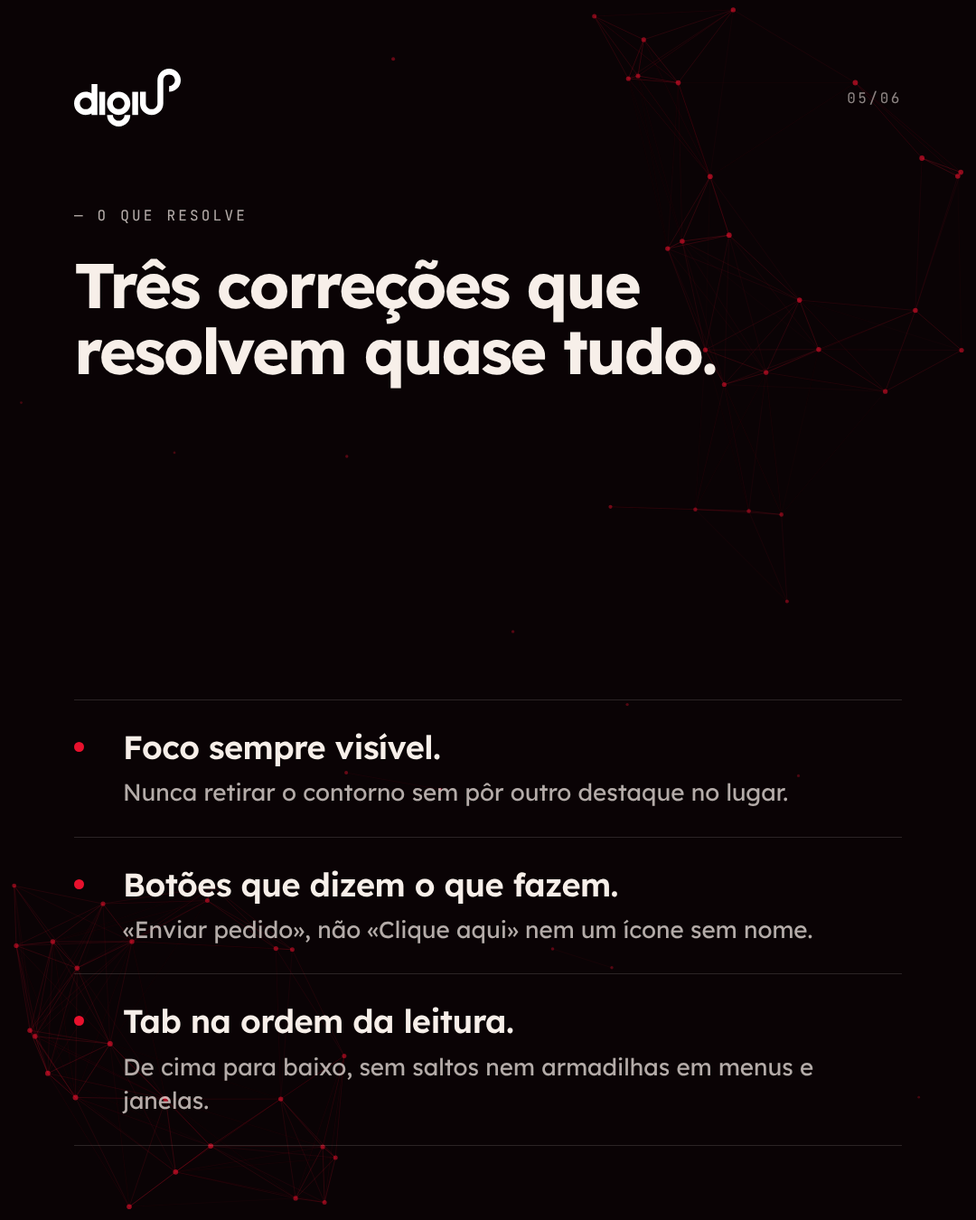
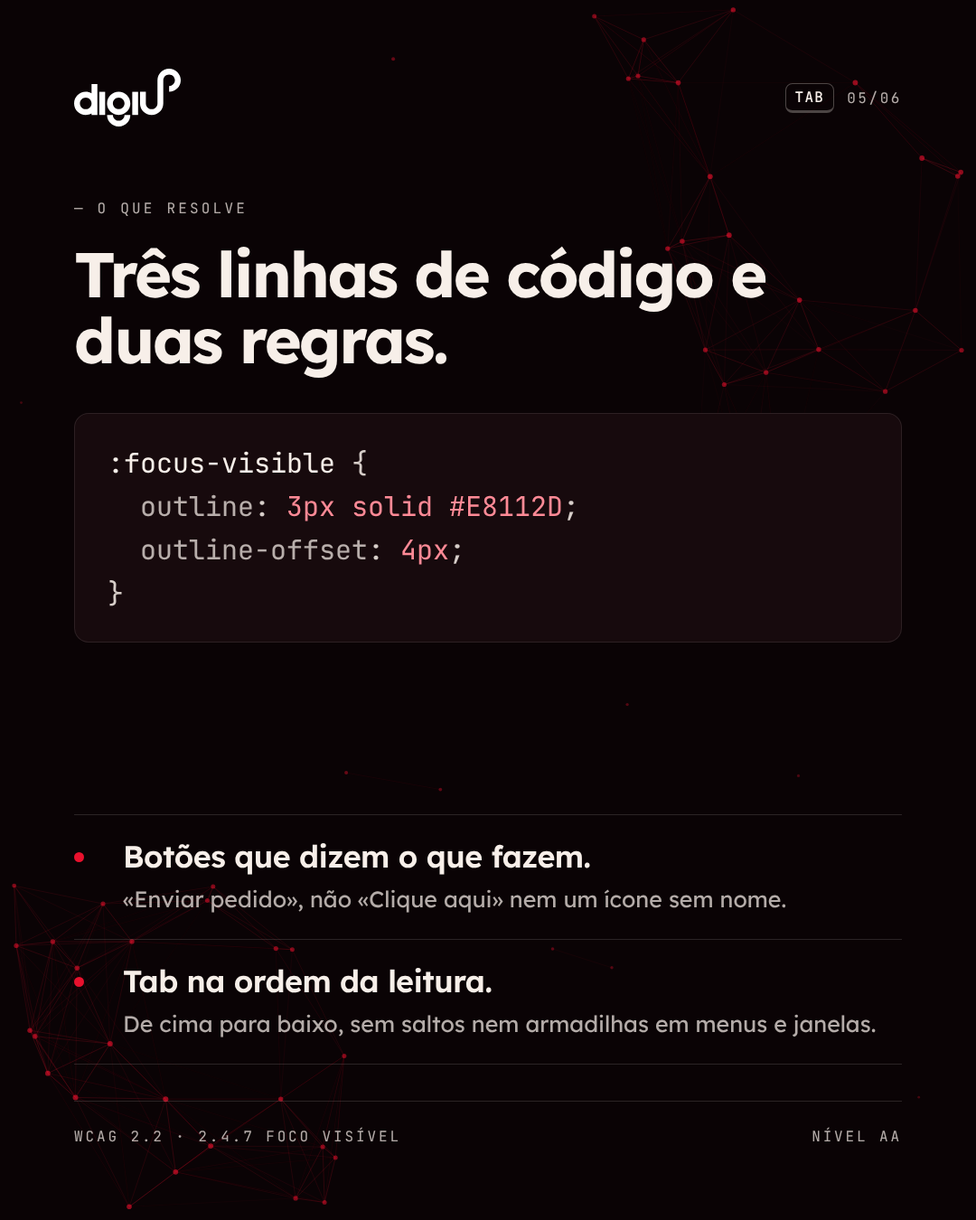
Carrossel «Cada deslize é um Tab» com imagens 3D
Nova versão do post de exemplo: tecla Tab e teclado renderizados em
3D com luz vermelha, e um anel de foco que atravessa os slides como se
cada deslize fosse um Tab. Inclui a cena three.js para regenerar as
imagens.

Claude-Session: https://claude.ai/code/session_0173GtUhSHhHFQaxLRUGv3dG

diff --git a/post-exemplo/carrossel.html b/post-exemplo/carrossel.html
@@ -4,144 +4,158 @@
 <meta charset="utf-8">
 <link href="https://fonts.googleapis.com/css2?family=Lexend:wght@400;500;600;700&family=JetBrains+Mono:wght@400;500&display=block" rel="stylesheet">
 <style>
-/* digiUP Design System tokens (tokens.json) */
+/* digiUP Design System tokens + one new device: the focus ring (#E8112D, 4px, offset 10px) */
 :root{
-  --du-black:#0a0305; --du-black-card:#170a0d; --du-cream:#f7efe9; --du-white:#ffffff;
-  --du-red:#e8112d; --du-crimson:#b00e22;
-  --du-cream-86:rgba(247,239,233,.86); --du-cream-72:rgba(247,239,233,.72); --du-cream-68:rgba(247,239,233,.68);
-  --du-cream-55:rgba(247,239,233,.55); --du-cream-28:rgba(247,239,233,.28); --du-cream-14:rgba(247,239,233,.14); --du-cream-10:rgba(247,239,233,.1);
+  --du-black:#0a0305; --du-black-card:#170a0d; --du-cream:#f7efe9; --du-white:#ffffff; --du-red:#e8112d;
+  --du-cream-86:rgba(247,239,233,.86); --du-cream-72:rgba(247,239,233,.72); --du-cream-55:rgba(247,239,233,.55);
+  --du-cream-28:rgba(247,239,233,.28); --du-cream-14:rgba(247,239,233,.14); --du-cream-10:rgba(247,239,233,.1);
   --du-font-sans:Lexend,Helvetica,sans-serif; --du-font-mono:'JetBrains Mono',ui-monospace,monospace;
-  --du-glow-corner:radial-gradient(115% 62% at 84% 12%,rgba(176,14,34,.46) 0%,rgba(10,3,5,0) 68%);
-  --du-glow-soft:radial-gradient(105% 55% at 90% 8%,rgba(176,14,34,.35) 0%,rgba(10,3,5,0) 62%);
-  --du-glow-low:radial-gradient(110% 60% at 12% 96%,rgba(176,14,34,.42) 0%,rgba(10,3,5,0) 66%);
+  --ring:0 0 0 4px var(--du-red), 0 0 38px 6px rgba(232,17,45,.45);
 }
 *{box-sizing:border-box;margin:0;padding:0}
 body{background:#17181a;font-family:var(--du-font-sans);display:flex;flex-wrap:wrap;gap:48px;padding:56px;align-items:flex-start}
 .s{position:relative;width:1080px;height:1350px;flex-shrink:0;overflow:hidden;isolation:isolate;background:var(--du-black);color:var(--du-cream);display:flex;flex-direction:column;padding:76px 82px 82px}
-.net{position:absolute;inset:0;width:100%;height:100%;object-fit:cover;z-index:-1}
+.net{position:absolute;inset:0;width:100%;height:100%;object-fit:cover;z-index:-2}
 .glow{position:absolute;inset:0;z-index:-1}
-.top{display:flex;justify-content:space-between;align-items:center}
+.top{display:flex;justify-content:space-between;align-items:center;position:relative;z-index:2}
 .top img{width:118px;height:auto}
-.counter{font-family:var(--du-font-mono);font-size:16px;letter-spacing:.16em;color:var(--du-cream-55)}
+.tabcount{display:flex;align-items:center;gap:14px;font-family:var(--du-font-mono);font-size:16px;letter-spacing:.16em;color:var(--du-cream-72)}
+.tabcount b{font-weight:500;color:var(--du-cream);border:1px solid var(--du-cream-28);border-bottom-width:3px;border-radius:8px;padding:4px 10px;letter-spacing:.08em}
 .eyebrow{display:flex;align-items:center;gap:14px;font-family:var(--du-font-mono);font-size:16px;letter-spacing:.2em;text-transform:uppercase;color:var(--du-cream-72)}
 .eyebrow .dot{width:11px;height:11px;border-radius:50%;background:var(--du-red)}
 .h{font-weight:700;letter-spacing:-.035em;line-height:1.04}
 .hl{display:flex;flex-direction:column;align-items:flex-start;gap:6px}
-.hl > div{font-size:76px;font-weight:700;letter-spacing:-.035em;line-height:1.08}
+.hl > div{font-size:var(--fs,80px);font-weight:700;letter-spacing:-.035em;line-height:1.08}
 .hl .c{background:var(--du-cream);color:var(--du-black);padding:2px 20px;border-radius:6px}
 .hl .r{background:var(--du-red);color:var(--du-white);padding:2px 20px;border-radius:6px}
-.body{font-size:27px;line-height:1.52;color:var(--du-cream-72);max-width:780px;text-wrap:pretty}
-.meta{padding-top:30px;border-top:1px solid var(--du-cream-14);display:flex;justify-content:space-between;font-family:var(--du-font-mono);font-size:16px;letter-spacing:.18em;text-transform:uppercase;color:var(--du-cream-72)}
-.keys{display:flex;flex-wrap:wrap;gap:16px}
-.key{font-family:var(--du-font-mono);font-weight:500;font-size:24px;letter-spacing:.06em;border:1px solid var(--du-cream-28);border-bottom-width:4px;border-radius:12px;padding:14px 22px;color:var(--du-cream)}
-.rows{display:flex;flex-direction:column}
-.row{display:grid;grid-template-columns:300px 1fr;gap:24px;align-items:center;padding:28px 0;border-top:1px solid var(--du-cream-14)}
-.row:last-child{border-bottom:1px solid var(--du-cream-14)}
-.row .key{justify-self:start;font-size:22px;padding:10px 18px}
-.row span{font-size:28px;line-height:1.35;color:var(--du-cream-86)}
-.cards{display:flex;flex-direction:column;gap:22px}
-.card{background:var(--du-black-card);border:1px solid var(--du-cream-10);border-radius:16px;padding:46px 42px;display:grid;grid-template-columns:96px 1fr;align-items:center}
-.card .n{font-size:52px;font-weight:700;letter-spacing:-.05em;line-height:.9;color:var(--du-red)}
-.card p{font-size:40px;font-weight:600;letter-spacing:-.015em;line-height:1.2}
-.fix{display:grid;grid-template-columns:34px 1fr;gap:10px 20px;padding:30px 0;border-top:1px solid var(--du-cream-14)}
+.body{font-size:27px;line-height:1.52;color:var(--du-cream-72);max-width:800px;text-wrap:pretty}
+.meta{padding-top:28px;border-top:1px solid var(--du-cream-14);display:flex;justify-content:space-between;font-family:var(--du-font-mono);font-size:16px;letter-spacing:.18em;text-transform:uppercase;color:var(--du-cream-72);position:relative;z-index:2}
+.focusnote{font-family:var(--du-font-mono);font-size:16px;letter-spacing:.16em;text-transform:uppercase;color:var(--du-red)}
+.focusnote.off{color:var(--du-cream-72)}
+
+/* form mock: the system's one field type, underlined */
+.form{background:var(--du-black-card);border:1px solid var(--du-cream-10);border-radius:20px;padding:44px 48px;display:flex;flex-direction:column;gap:34px}
+.field label{display:block;font-family:var(--du-font-mono);font-size:16px;letter-spacing:.16em;text-transform:uppercase;color:var(--du-cream-72);margin-bottom:12px}
+.field .in{font-size:30px;color:var(--du-cream-55);padding:6px 4px 14px;border-bottom:1px solid var(--du-cream-28)}
+.field.focus .in{color:var(--du-cream)}
+.field.focus{border-radius:10px;box-shadow:var(--ring);outline-offset:10px;padding:14px 16px;margin:-14px -16px}
+.btn{align-self:flex-start;display:inline-flex;align-items:center;gap:14px;background:var(--du-red);color:var(--du-white);border-radius:999px;padding:20px 34px;font-size:24px;font-weight:600}
+.caret{display:inline-block;width:3px;height:30px;background:var(--du-cream);vertical-align:-5px;margin-left:2px}
+
+.keyrow{display:flex;flex-wrap:wrap;gap:12px 26px;font-size:24px;color:var(--du-cream-86);line-height:1.3}
+.keyrow span{display:flex;align-items:center;gap:12px}
+.k{font-style:normal;font-family:var(--du-font-mono);font-weight:500;font-size:20px;letter-spacing:.06em;border:1px solid var(--du-cream-28);border-bottom-width:3px;border-radius:10px;padding:6px 12px;color:var(--du-cream)}
+
+.code{font-family:var(--du-font-mono);font-size:30px;line-height:1.6;background:var(--du-black-card);border:1px solid var(--du-cream-10);border-radius:16px;padding:30px 36px;color:var(--du-cream-86)}
+.code .sel{color:var(--du-cream)} .code .p{color:var(--du-cream-72)} .code .v{color:#ff8a96}
+.code del{text-decoration:line-through;text-decoration-color:var(--du-red);text-decoration-thickness:4px;color:var(--du-cream-72)}
+.fix{display:grid;grid-template-columns:34px 1fr;gap:8px 20px;padding:26px 0;border-top:1px solid var(--du-cream-14)}
 .fix:last-child{border-bottom:1px solid var(--du-cream-14)}
-.fix i{width:11px;height:11px;border-radius:50%;background:var(--du-red);margin-top:16px}
-.fix b{font-size:36px;font-weight:600;letter-spacing:-.015em;line-height:1.2}
-.fix span{grid-column:2;font-size:26px;line-height:1.45;color:var(--du-cream-72)}
-.pill{display:inline-flex;align-items:center;gap:14px;background:var(--du-red);color:var(--du-white);border-radius:999px;padding:22px 36px;font-size:26px;font-weight:600}
-.disc{width:66px;height:66px;border-radius:50%;background:var(--du-red);color:var(--du-white);display:flex;align-items:center;justify-content:center;font-size:28px}
-.note{font-size:24px;line-height:1.5;color:var(--du-cream-72);border-top:1px solid var(--du-cream-14);padding-top:26px}
+.fix i{width:11px;height:11px;border-radius:50%;background:var(--du-red);margin-top:15px}
+.fix b{font-size:34px;font-weight:600;letter-spacing:-.015em;line-height:1.2}
+.fix span{grid-column:2;font-size:25px;line-height:1.45;color:var(--du-cream-72)}
+.pill{display:inline-flex;align-items:center;gap:14px;background:var(--du-red);color:var(--du-white);border-radius:999px;padding:24px 40px;font-size:28px;font-weight:600}
+.pill.focus{box-shadow:0 0 0 6px var(--du-black),0 0 0 10px var(--du-cream),0 0 44px 10px rgba(232,17,45,.5)}
 </style>
 </head>
 <body>
 
-<!-- 01 Capa -->
+<!-- 01 Capa: a tecla Tab com o anel de foco -->
 <section class="s" id="s1">
   <img class="net" src="net-subtle-1080x1350.svg" alt="">
-  <div class="glow" style="background:var(--du-glow-corner)"></div>
-  <div class="top"><img src="digiup-white.svg" alt="digiUP"><span class="counter">01/06</span></div>
-  <div class="eyebrow" style="margin-top:104px"><span class="dot"></span>Acessibilidade digital · Desafio</div>
-  <div class="hl" style="margin-top:38px">
-    <div>Dois minutos</div>
-    <div class="c">sem rato</div>
-    <div class="r">no seu site.</div>
+  <div class="glow" style="background:radial-gradient(80% 50% at 60% 42%,rgba(176,14,34,.42) 0%,rgba(10,3,5,0) 70%)"></div>
+  <div class="top"><img src="digiup-white.svg" alt="digiUP"><span class="tabcount"><b>TAB</b>01/06</span></div>
+  <div style="position:absolute;left:-40px;top:206px;width:1180px;transform:rotate(-7deg);z-index:1">
+    <img src="tecla-tab-crop.png" alt="" style="width:100%;display:block">
+    <div style="position:absolute;left:30px;top:-14px;width:1010px;height:520px;border-radius:64px;box-shadow:0 0 0 5px var(--du-red),0 0 60px 10px rgba(232,17,45,.45)"></div>
   </div>
-  <p class="body" style="margin-top:38px">Pouse o rato e tente preencher um formulário só com o teclado.</p>
-  <div class="keys" style="margin-top:44px">
-    <span class="key">TAB</span><span class="key">SHIFT + TAB</span><span class="key">ENTER</span><span class="key">ESPAÇO</span><span class="key">← →</span>
+  <div style="margin-top:auto;position:relative;z-index:2">
+    <div class="eyebrow"><span class="dot"></span>Acessibilidade digital · Desafio</div>
+    <div class="hl" style="margin-top:30px">
+      <div>Dois minutos</div>
+      <div class="c">sem rato</div>
+      <div class="r">no seu site.</div>
+    </div>
   </div>
-  <div class="meta" style="margin-top:auto"><span>Desliza →</span><span>digiup.me</span></div>
+  <div class="meta" style="margin-top:44px"><span>Cada deslize é um Tab →</span><span>digiup.me</span></div>
 </section>
 
-<!-- 02 Instruções -->
+<!-- 02 O desafio: foco no primeiro campo -->
 <section class="s" id="s2">
   <img class="net" src="net-subtle-1080x1350.svg" alt="">
-  <div class="top"><img src="digiup-white.svg" alt="digiUP"><span class="counter">02/06</span></div>
-  <div class="eyebrow" style="margin-top:88px">— O desafio</div>
-  <div class="h" style="margin-top:30px;font-size:76px">Pouse o rato.</div>
-  <p class="body" style="margin-top:26px">Abra um formulário real do seu site — contacto, inscrição ou checkout — e use só estas teclas.</p>
-  <div class="rows" style="margin-top:auto">
-    <div class="row"><span class="key">TAB</span><span>Avança para o elemento seguinte.</span></div>
-    <div class="row"><span class="key">SHIFT + TAB</span><span>Volta ao elemento anterior.</span></div>
-    <div class="row"><span class="key">ENTER</span><span>Abre um link ou carrega num botão.</span></div>
-    <div class="row"><span class="key">ESPAÇO</span><span>Marca uma caixa ou carrega num botão.</span></div>
-    <div class="row"><span class="key">← →</span><span>Escolhe uma opção numa lista.</span></div>
+  <div class="top"><img src="digiup-white.svg" alt="digiUP"><span class="tabcount"><b>TAB</b>02/06</span></div>
+  <div class="eyebrow" style="margin-top:80px">— O desafio</div>
+  <div class="h" style="margin-top:26px;font-size:76px">Pouse o rato.</div>
+  <p class="body" style="margin-top:22px">Abra um formulário real do seu site e preencha-o só com o teclado.</p>
+  <div class="form" style="margin-top:46px">
+    <div class="field focus"><label>Nome</label><div class="in">Ana Ferreira<span class="caret"></span></div></div>
+    <div class="field"><label>Email</label><div class="in">nome@empresa.pt</div></div>
+    <div class="btn">Enviar pedido <span>→</span></div>
+  </div>
+  <div class="focusnote" style="margin-top:22px">● Foco no campo «Nome»</div>
+  <div class="keyrow" style="margin-top:auto">
+    <span><i class="k">TAB</i>avança</span><span><i class="k">SHIFT+TAB</i>volta</span><span><i class="k">ENTER</i>ativa</span><span><i class="k">← →</i>escolhem</span>
   </div>
 </section>
 
-<!-- 03 Perguntas -->
+<!-- 03 O foco desaparece -->
 <section class="s" id="s3">
   <img class="net" src="net-subtle-1080x1350.svg" alt="">
-  <div class="top"><img src="digiup-white.svg" alt="digiUP"><span class="counter">03/06</span></div>
-  <div class="eyebrow" style="margin-top:88px">— Depois, responda</div>
-  <div class="h" style="margin-top:30px;font-size:76px">Três perguntas.</div>
-  <div class="cards" style="margin:auto 0">
-    <div class="card"><span class="n">01</span><p>Em que ponto se perdeu?</p></div>
-    <div class="card"><span class="n">02</span><p>Sabia sempre onde estava o foco?</p></div>
-    <div class="card"><span class="n">03</span><p>O leitor de ecrã disse algo útil nas imagens e nos botões?</p></div>
+  <div class="top"><img src="digiup-white.svg" alt="digiUP"><span class="tabcount"><b>TAB</b>03/06</span></div>
+  <div class="eyebrow" style="margin-top:80px">— Mais um Tab</div>
+  <div class="h" style="margin-top:26px;font-size:76px">Onde está o foco?</div>
+  <div class="form" style="margin-top:46px">
+    <div class="field"><label>Nome</label><div class="in" style="color:var(--du-cream)">Ana Ferreira</div></div>
+    <div class="field"><label>Email</label><div class="in">nome@empresa.pt</div></div>
+    <div class="btn">Enviar pedido <span>→</span></div>
   </div>
-  <p class="note">Leitor de ecrã: o VoiceOver já vem no Mac e no iPhone. No Windows, o NVDA é gratuito.</p>
+  <div class="focusnote off" style="margin-top:22px">○ Foco: invisível</div>
+  <p class="body" style="margin-top:auto">Carregou no Tab e nada se vê. Acontece quando o código apaga o contorno:</p>
+  <div class="code" style="margin-top:22px"><span class="sel">button:focus</span> {<br>&nbsp;&nbsp;<del><span class="p">outline</span>: none;</del><br>}</div>
 </section>
 
-<!-- 04 Frase -->
-<section class="s" id="s4">
-  <img class="net" src="net-subtle-1080x1350.svg" alt="">
-  <div class="glow" style="background:var(--du-glow-low)"></div>
-  <div class="top"><img src="digiup-white.svg" alt="digiUP"><span class="counter">04/06</span></div>
-  <div class="eyebrow" style="margin-top:88px">— A diferença</div>
-  <div class="hl" style="margin:auto 0">
+<!-- 04 Frase sobre o teclado -->
+<section class="s" id="s4" style="padding-top:76px">
+  <img src="teclado.png" alt="" style="position:absolute;left:-640px;bottom:-150px;width:1960px;z-index:-2">
+  <div class="glow" style="background:linear-gradient(180deg,rgba(10,3,5,1) 30%,rgba(10,3,5,.82) 52%,rgba(10,3,5,.25) 78%,rgba(10,3,5,.55) 100%)"></div>
+  <div class="top"><img src="digiup-white.svg" alt="digiUP"><span class="tabcount"><b>TAB</b>04/06</span></div>
+  <div class="eyebrow" style="margin-top:80px">— A diferença</div>
+  <div class="hl" style="margin-top:34px;--fs:72px">
     <div>Para nós, foram</div>
     <div>dois minutos chatos.</div>
-    <div class="c" style="margin-top:28px">Para algumas pessoas,</div>
+    <div class="c" style="margin-top:24px">Para algumas pessoas,</div>
     <div class="r">é todos os dias.</div>
-    <p class="body" style="margin-top:40px">Em quase todos os sites. A barreira raramente está na pessoa — está quase sempre no que desenhámos.</p>
   </div>
-  <div class="meta"><span>Formação interna · digiUP</span><span>Amarante, PT</span></div>
+  <p class="body" style="margin-top:34px">Em quase todos os sites. A barreira raramente está na pessoa — está no que desenhámos.</p>
 </section>
 
 <!-- 05 O que resolve -->
 <section class="s" id="s5">
   <img class="net" src="net-subtle-1080x1350.svg" alt="">
-  <div class="top"><img src="digiup-white.svg" alt="digiUP"><span class="counter">05/06</span></div>
-  <div class="eyebrow" style="margin-top:88px">— O que resolve</div>
-  <div class="h" style="margin-top:30px;font-size:70px;max-width:860px">Três correções que resolvem quase tudo.</div>
+  <div class="top"><img src="digiup-white.svg" alt="digiUP"><span class="tabcount"><b>TAB</b>05/06</span></div>
+  <div class="eyebrow" style="margin-top:80px">— O que resolve</div>
+  <div class="h" style="margin-top:26px;font-size:70px;max-width:880px">Três linhas de código e duas regras.</div>
+  <div class="code" style="margin-top:44px"><span class="sel">:focus-visible</span> {<br>&nbsp;&nbsp;<span class="p">outline</span>: <span class="v">3px solid #E8112D</span>;<br>&nbsp;&nbsp;<span class="p">outline-offset</span>: <span class="v">4px</span>;<br>}</div>
   <div style="margin-top:auto">
-    <div class="fix"><i></i><b>Foco sempre visível.</b><span>Nunca retirar o contorno sem pôr outro destaque no lugar.</span></div>
     <div class="fix"><i></i><b>Botões que dizem o que fazem.</b><span>«Enviar pedido», não «Clique aqui» nem um ícone sem nome.</span></div>
     <div class="fix"><i></i><b>Tab na ordem da leitura.</b><span>De cima para baixo, sem saltos nem armadilhas em menus e janelas.</span></div>
   </div>
+  <div class="meta" style="margin-top:40px"><span>WCAG 2.2 · 2.4.7 Foco visível</span><span>Nível AA</span></div>
 </section>
 
-<!-- 06 CTA -->
+<!-- 06 CTA: o foco chega ao botão -->
 <section class="s" id="s6">
   <img class="net" src="net-subtle-1080x1350.svg" alt="">
-  <div class="glow" style="background:var(--du-glow-soft)"></div>
-  <div class="top"><img src="digiup-white.svg" alt="digiUP"><span class="counter">06/06</span></div>
+  <div class="glow" style="background:radial-gradient(105% 55% at 90% 8%,rgba(176,14,34,.35) 0%,rgba(10,3,5,0) 62%)"></div>
+  <div class="top"><img src="digiup-white.svg" alt="digiUP"><span class="tabcount"><b>TAB</b>06/06</span></div>
   <div style="margin:auto 0;display:flex;flex-direction:column;gap:38px;align-items:flex-start">
-    <div class="eyebrow"><span class="dot"></span>A sua vez</div>
-    <div class="h" style="font-size:72px;max-width:860px">Onde é que se perdeu?</div>
-    <p class="body">Faça o teste e conte-nos nos comentários. Se quiser saber o que corrigir primeiro, analisamos o seu site.</p>
-    <div style="display:flex;align-items:center;gap:22px"><span class="pill">Vamos conversar <span>→</span></span><span class="disc">↗</span></div>
+    <div class="eyebrow"><span class="dot"></span>Chegou ao fim só com Tab</div>
+    <div class="h" style="font-size:76px;max-width:880px">Onde é que se perdeu?</div>
+    <p class="body">Faça o teste no seu site e conte-nos nos comentários. Se quiser saber o que corrigir primeiro, analisamos o seu site.</p>
+    <div style="display:flex;flex-direction:column;gap:22px;margin-top:10px">
+      <span class="pill focus">Vamos conversar <span>→</span></span>
+      <span class="focusnote">● Foco no botão. Enter para continuar.</span>
+    </div>
   </div>
   <div class="meta"><span>digiup.me</span><span>Amarante, PT</span></div>
 </section>

diff --git a/post-exemplo/3d/scene.html b/post-exemplo/3d/scene.html
@@ -1,0 +1,103 @@
+<!doctype html>
+<html><head><meta charset="utf-8">
+<link href="https://fonts.googleapis.com/css2?family=Lexend:wght@500;600&family=JetBrains+Mono:wght@500&display=block" rel="stylesheet">
+<style>html,body{margin:0;background:transparent}canvas{display:block}</style>
+<script type="importmap">{"imports":{"three":"./node_modules/three/build/three.module.js","three/addons/":"./node_modules/three/examples/jsm/"}}</script>
+</head><body>
+<script type="module">
+import * as THREE from 'three';
+import { RoundedBoxGeometry } from 'three/addons/geometries/RoundedBoxGeometry.js';
+import { RectAreaLightUniformsLib } from 'three/addons/lights/RectAreaLightUniformsLib.js';
+import { RoomEnvironment } from 'three/addons/environments/RoomEnvironment.js';
+
+const P = new URLSearchParams(location.search);
+const mode = P.get('mode') || 'hero';
+const W = +P.get('w') || 2000, H = +P.get('h') || 1600;
+await document.fonts.load('600 80px Lexend'); await document.fonts.load('500 40px "JetBrains Mono"');
+
+RectAreaLightUniformsLib.init();
+const renderer = new THREE.WebGLRenderer({ antialias: true, alpha: true, preserveDrawingBuffer: true });
+renderer.setPixelRatio(1); renderer.setSize(W, H);
+renderer.toneMapping = THREE.ACESFilmicToneMapping; renderer.toneMappingExposure = 1.0;
+renderer.outputColorSpace = THREE.SRGBColorSpace;
+renderer.shadowMap.enabled = true; renderer.shadowMap.type = THREE.PCFSoftShadowMap;
+document.body.appendChild(renderer.domElement);
+
+const scene = new THREE.Scene();
+const pmrem = new THREE.PMREMGenerator(renderer);
+const env = pmrem.fromScene(new RoomEnvironment(renderer), 0.04).texture;
+scene.environment = env;
+scene.environmentIntensity = 0.12;
+
+const RED = 0xe8112d, CREAM = '#f7efe9';
+const capMat = () => new THREE.MeshPhysicalMaterial({ color: 0x0d0607, roughness: 0.34, metalness: 0.0, clearcoat: 0.6, clearcoatRoughness: 0.25, sheen: 0.3, sheenColor: new THREE.Color(0x5a0a14) });
+
+function legendTexture(text, sub, w, h, color = CREAM) {
+  const c = document.createElement('canvas'); c.width = w; c.height = h;
+  const g = c.getContext('2d');
+  g.fillStyle = color; g.textBaseline = 'top';
+  g.font = `600 ${Math.round(h * 0.26)}px Lexend`;
+  g.fillText(text, w * 0.11, h * 0.13);
+  if (sub) { g.font = `500 ${Math.round(h * 0.2)}px "JetBrains Mono"`; g.fillText(sub, w * 0.11, h * 0.56); }
+  const t = new THREE.CanvasTexture(c); t.colorSpace = THREE.SRGBColorSpace; t.anisotropy = 8; return t;
+}
+
+function keycap(u = 1, text = '', sub = '', opts = {}) {
+  const g = new THREE.Group();
+  const base = new THREE.Mesh(new RoundedBoxGeometry(u - 0.08, 0.42, 0.92, 8, 0.11), capMat());
+  base.position.y = 0.21; base.castShadow = true; base.receiveShadow = true; g.add(base);
+  if (text || sub) {
+    const tw = u - 0.24, th = 0.72;
+    const m = new THREE.Mesh(new THREE.PlaneGeometry(tw, th),
+      new THREE.MeshBasicMaterial({ map: legendTexture(text, sub, Math.round(512 * tw / th), 512, opts.legend || CREAM), transparent: true, toneMapped: false, opacity: opts.legendOpacity ?? 0.92 }));
+    m.rotation.x = -Math.PI / 2; m.position.set(0, 0.4205, 0); g.add(m);
+  }
+  return g;
+}
+
+let camera;
+if (mode === 'hero') {
+  // one giant Tab key, 3/4 view, red rim light
+  const k = keycap(1.6, 'Tab', '⇥'); k.rotation.y = -0.42; scene.add(k);
+  camera = new THREE.PerspectiveCamera(30, W / H, 0.1, 100);
+  camera.position.set(-0.75, 2.05, 2.25); camera.lookAt(0.12, 0.15, 0);
+  const rim = new THREE.RectAreaLight(RED, 34, 3, 0.6); rim.position.set(1.7, 0.7, -1.6); rim.lookAt(0, 0.4, 0); scene.add(rim);
+  const rim2 = new THREE.RectAreaLight(0xff2b3b, 14, 2, 1); rim2.position.set(-2.2, 0.6, -1.4); rim2.lookAt(0, 0.4, 0); scene.add(rim2);
+  const key = new THREE.SpotLight(0xffe2d6, 7, 12, 0.5, 0.9, 1.6); key.position.set(-3.2, 3.2, 1.2); key.target.position.set(0, 0.4, 0); key.castShadow = true; scene.add(key, key.target);
+  const floor = new THREE.Mesh(new THREE.PlaneGeometry(30, 30), new THREE.ShadowMaterial({ opacity: 0.55 })); floor.rotation.x = -Math.PI / 2; floor.receiveShadow = true; scene.add(floor);
+} else {
+  // a keyboard field at a low angle, receding into the dark
+  const rows = [
+    [['Esc', ''], ['', '1'], ['', '2'], ['', '3'], ['', '4'], ['', '5'], ['', '6'], ['', '7'], ['', '8']],
+    [['Tab', '⇥', 1.5], ['Q'], ['W'], ['E'], ['R'], ['T'], ['Y'], ['U'], ['I']],
+    [['Caps', '', 1.75], ['A'], ['S'], ['D'], ['F'], ['G'], ['H'], ['J'], ['K']],
+    [['Shift', '', 2.25], ['Z'], ['X'], ['C'], ['V'], ['B'], ['N'], ['M'], [',']],
+    [['', '', 1.25], ['', '', 1.25], ['', '', 1.25], ['Espaço', '', 6.25]],
+  ];
+  const kb = new THREE.Group();
+  rows.forEach((row, r) => {
+    let x = r === 0 ? 0 : 0;
+    row.forEach(([t, s, u = 1]) => {
+      const hl = t === 'Tab';
+      const k = keycap(u, t, s || '', { legendOpacity: hl ? 1 : 0.55 });
+      k.position.set(x + u / 2, 0, r * 1.0); kb.add(k);
+      if (hl) {
+        const ring = new THREE.Mesh(new RoundedBoxGeometry(u + 0.02, 0.07, 1.0, 4, 0.03), new THREE.MeshBasicMaterial({ color: RED, toneMapped: false }));
+        ring.position.set(x + u / 2, 0.035, r); kb.add(ring);
+        const glow = new THREE.PointLight(RED, 4, 2.2, 1.6); glow.position.set(x + u / 2, 0.9, r - 0.15); kb.add(glow);
+      }
+      x += u;
+    });
+  });
+  kb.position.set(-6.2, 0, -2.6); scene.add(kb);
+  camera = new THREE.PerspectiveCamera(28, W / H, 0.1, 100);
+  camera.position.set(-1.6, 3.0, 4.6); camera.lookAt(-3.6, 0.2, -1.1);
+  const rim = new THREE.RectAreaLight(RED, 30, 12, 1.2); rim.position.set(-1, 1.2, -6.5); rim.lookAt(-2, 0.3, 0); scene.add(rim);
+  const key = new THREE.SpotLight(0xffe2d6, 30, 14, 0.42, 0.9, 1.6); key.position.set(-5.5, 5.0, 2.4); key.target.position.set(-4.4, 0.4, -1.2); key.castShadow = true; scene.add(key, key.target);
+  const plate = new THREE.Mesh(new THREE.PlaneGeometry(40, 40), new THREE.MeshStandardMaterial({ color: 0x0a0305, roughness: 0.9 })); plate.rotation.x = -Math.PI / 2; plate.receiveShadow = true; scene.add(plate);
+  scene.fog = new THREE.Fog(0x0a0305, 5.5, 13);
+}
+renderer.render(scene, camera);
+window.__done = true;
+</script>
+</body></html>

diff --git a/post-exemplo/3d/shot.js b/post-exemplo/3d/shot.js
@@ -1,0 +1,13 @@
+const { chromium } = require('playwright');
+(async()=>{
+  const b=await chromium.launch({args:['--use-gl=angle','--use-angle=swiftshader','--enable-unsafe-swiftshader']});
+  for (const [mode,w,h] of [['hero',2000,1600],['field',2160,1350]]){
+    const p=await b.newPage({viewport:{width:w,height:h}});
+    p.on('console',m=>console.log(mode,m.text())); p.on('pageerror',e=>console.log(mode,'ERR',e.message));
+    await p.goto(`http://localhost:8765/scene.html?mode=${mode}&w=${w}&h=${h}`);
+    await p.waitForFunction(()=>window.__done===true,{timeout:120000});
+    await p.locator('canvas').screenshot({path:`${mode}.png`,omitBackground:true});
+    console.log('ok',mode);
+  }
+  await b.close();
+})();

diff --git a/post-exemplo/3d/README.md b/post-exemplo/3d/README.md
@@ -1,0 +1,8 @@
+# Imagens 3D do carrossel
+
+`scene.html` desenha as duas imagens com three.js 0.160.0:
+
+- `?mode=hero` — a tecla Tab isolada (`tecla-tab-crop.png`, depois de recortada)
+- `?mode=field` — o teclado com luz vermelha (`teclado.png`)
+
+Para voltar a gerar: `npm install three@0.160.0`, servir esta pasta (`python3 -m http.server 8765`) e correr `node shot.js` (Playwright).
